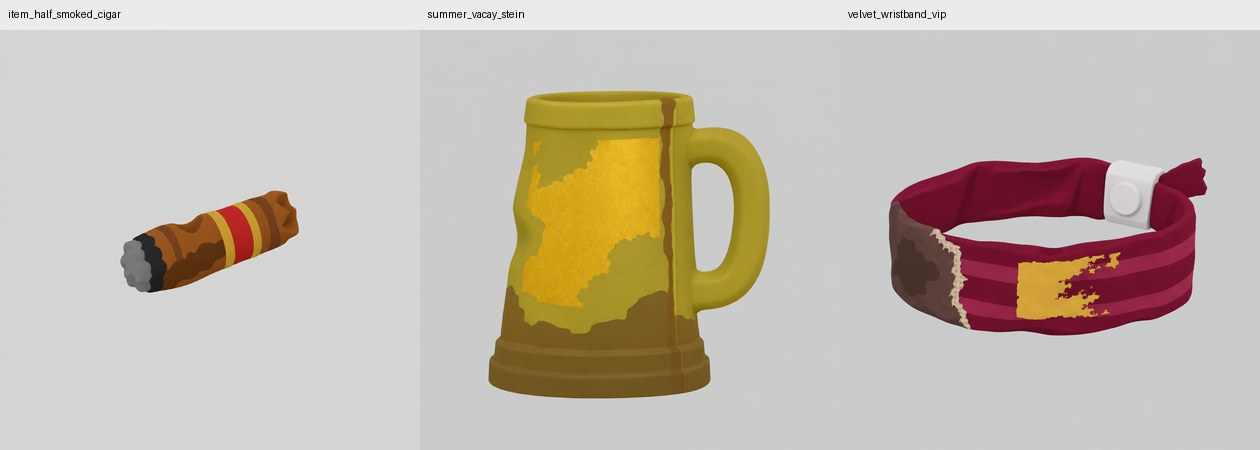
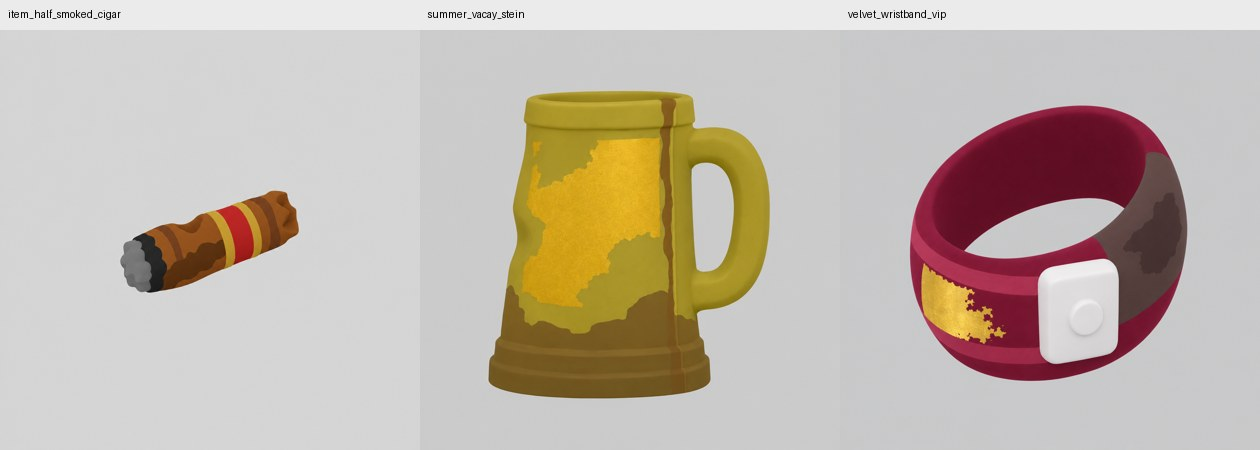
art(debaucheryville): VIP wristband reference round 2, thick solid band (asset team)
Claude-Session: https://claude.ai/code/session_01Rk2Ri3vAu7TBhRadSU9CbJ

Changed region(s): [[0.681, 0.2178, 0.9595, 0.8711]]

diff --git a/dev/asset_team/icon_refs/velvet_wristband_vip_prompt.md b/dev/asset_team/icon_refs/velvet_wristband_vip_prompt.md
@@ -6,3 +6,8 @@ Lettering: none. The doc calls the foil mark illegible and blocky, so it is a fl
 Shows: a thick burgundy velvet oval loop with two lighter sheen stripes, a half-rubbed gold foil patch, a chunky white plastic snap with a short uneven tail, one dark grubby section with a stain and frayed pale backing edge.
 
 Generate an image: A single cheap club-souvenir item, drawn in the middle of a flat light-grey square (about 55 percent of the frame width, large margins). A thick chunky event wristband standing as a closed oval loop, like a fat bangle band about 3 cm wide, made of matte crushed velvet in one even deep burgundy colour (hex 7E1E3E) with two broad flat lighter burgundy sheen stripes running along its length. On the outside is one large flat gold foil patch, a blocky shape rubbed half away, with no letters. A chunky opaque white plastic one-way snap clasp is fused into the band, and the trimmed tail end sticks out short, chunky and uneven. One section of the band is grubby and darkened as a broad flat dark brown-grey colour block, with one big flat dark stain and a thick frayed worn edge showing a flat pale woven backing. The loop is permanently creased flat and a little sagging. Stylized 3D toy render, matte opaque surfaces, bold chunky shapes in clear flat colour blocks. No thin straps, no thin cords, no glow, no gloss, no transparency, no fine noise, no speckle, no text, no letters, no hands, no wrist, no arm, no people, no shadows. Light grey background. Square image.
+
+## Round 2 (A3 fail on round 1: frayed threads, thin tail, thin hollow loop). KEPT.
+Rounds: 2. Margins (percent): L16.6 R17.3 T18.0 B16.4. Shows: a thick solid closed burgundy bangle-style band with smooth walls, two sheen stripes, a half-rubbed gold foil patch, a flat chunky white snap block fused on, and a flat dark grubby stain block. No fray, no tail, no lettering.
+
+Generate an image: A single chunky souvenir bangle, drawn in the middle of a flat light-grey square (about 55 percent of the frame width, large margins). A thick solid closed band like a fat rounded bangle bracelet, one solid piece about 3 cm wide with a thick rounded edge and smooth plain inner and outer walls, standing upright as a ring seen at a three-quarter angle. It is matte velvet in one even deep burgundy colour (hex 7E1E3E) with two broad flat lighter burgundy sheen stripes running around it. On the outer wall is one large flat gold foil patch, a blocky shape half rubbed away, with no letters. A chunky flat opaque white plastic snap block is fused flat onto the outside of the band. One broad section of the band is darkened as a flat dark brown-grey colour block with one big flat dark stain. No fraying, no threads, no loose tail, no creases, no crumpling. Stylized 3D toy render, matte opaque surfaces, bold chunky simple shapes in clear flat colour blocks. No thin parts, no straps, no cords, no glow, no gloss, no transparency, no fine noise, no speckle, no text, no letters, no hands, no wrist, no arm, no people, no shadows. Light grey background. Square image.
